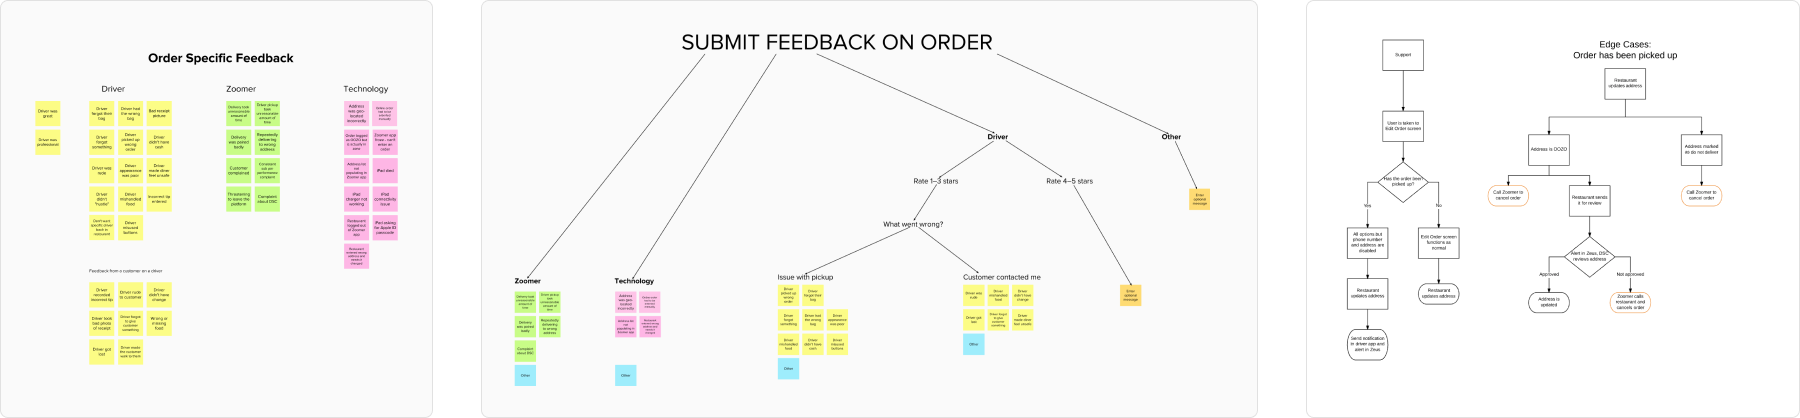
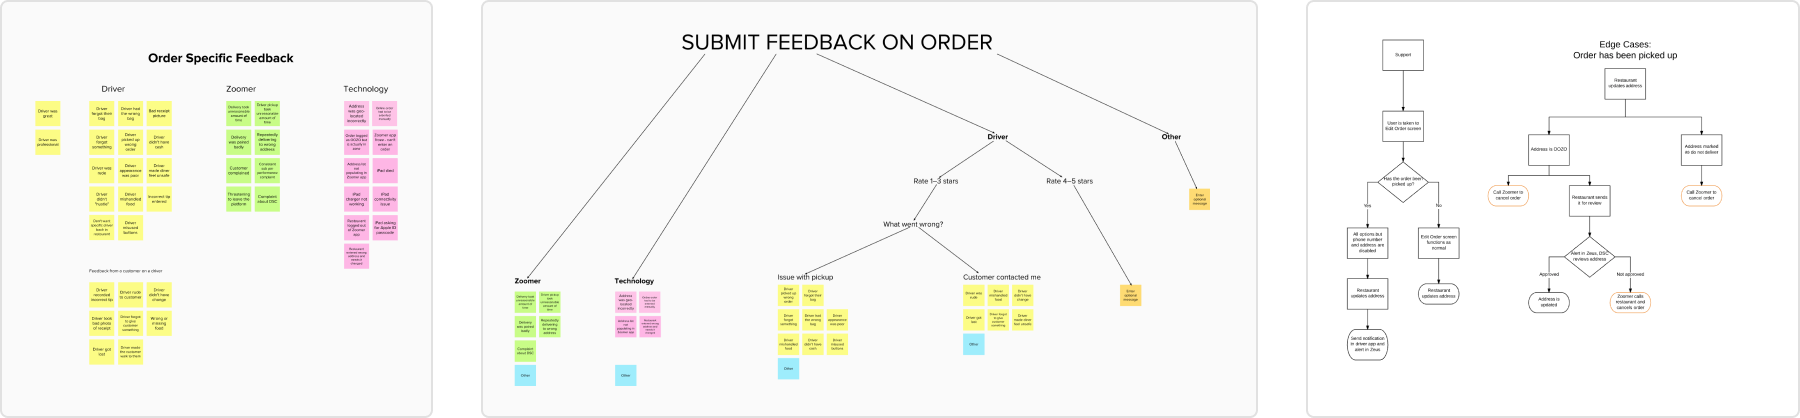
Updated case study images
- Updated stroke width from 1px to 2px
- Updated wireframes from .jpg to .png with transparent background

Changed region(s): [[0.0, 0.0, 1.0, 1.0]]

diff --git a/zoomer-restaurant-feedback-support.html b/zoomer-restaurant-feedback-support.html
@@ -97,7 +97,7 @@
       <p class="main-content-copy">Our first task was to understand the scope of what we were trying to solve. Using our growing collection of restaurant support tickets to inform this process, we listed out the most common issues restaurants needed help with. We sorted the most actionable issues into groups that we built workflows from, then began ideating.</p>
       <img alt="Diagrams of affinity maps and early workflows" class="main-content-image" src="images/zoomer-restaurant-feedback-support/zoomer-feedback-support-affinity-mapping.png" />
       <p class="main-content-image">Affinity mapping to identify and group issues, and early workflows.</p>
-      <img alt="Early wireframe sketches" class="main-content-image" src="images/zoomer-restaurant-feedback-support/zoomer-feedback-support-wireframes.jpg" />
+      <img alt="Early wireframe sketches" class="main-content-image" src="images/zoomer-restaurant-feedback-support/zoomer-feedback-support-wireframes.png" />
       <p class="main-content-image">Early wireframe sketches.</p>
       <img alt="UI explorations of feedback mechanism" class="main-content-image" src="images/zoomer-restaurant-feedback-support/zoomer-feedback-support-explorations.png" />
       <p class="main-content-image">Divergent, high-fidelity explorations of feedback and support mechanisms in the restaurant app.</p>
